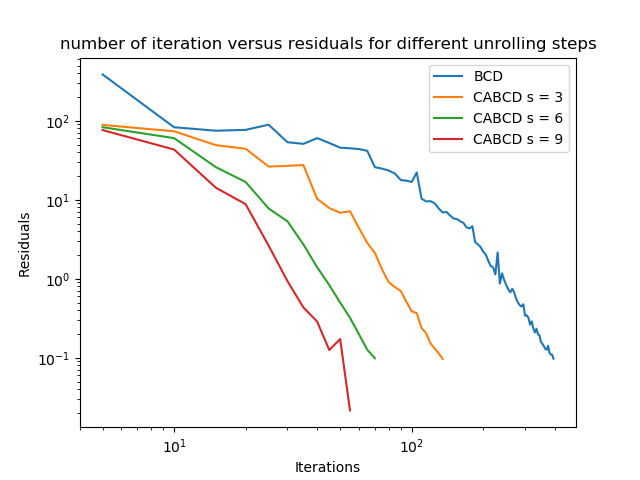
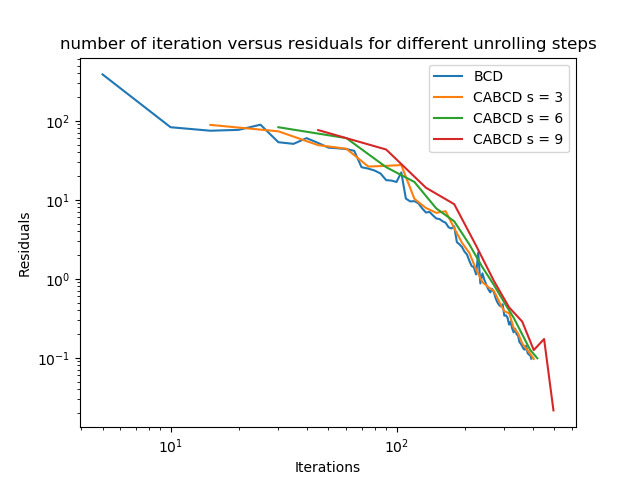
fix x axis calculation bug

diff --git a/benchmark_cabcd_s.py b/benchmark_cabcd_s.py
@@ -21,6 +21,8 @@ def benchmark_S(sc, A, b, M, N, l, mu, eps, Ss):
 		total_iteration = len(residuals)*5
 		xs = np.arange(5,total_iteration+1, 5)
 		legends.append("CABCD s = "+str(s))
+		total_iteration = len(residuals)*5*s
+		xs = np.arange(5*s,total_iteration+1, 5*s)
 		plt.plot(xs, residuals)
 	ax = plt.axes()   
 	plt.title("number of iteration versus residuals for different unrolling steps")     
